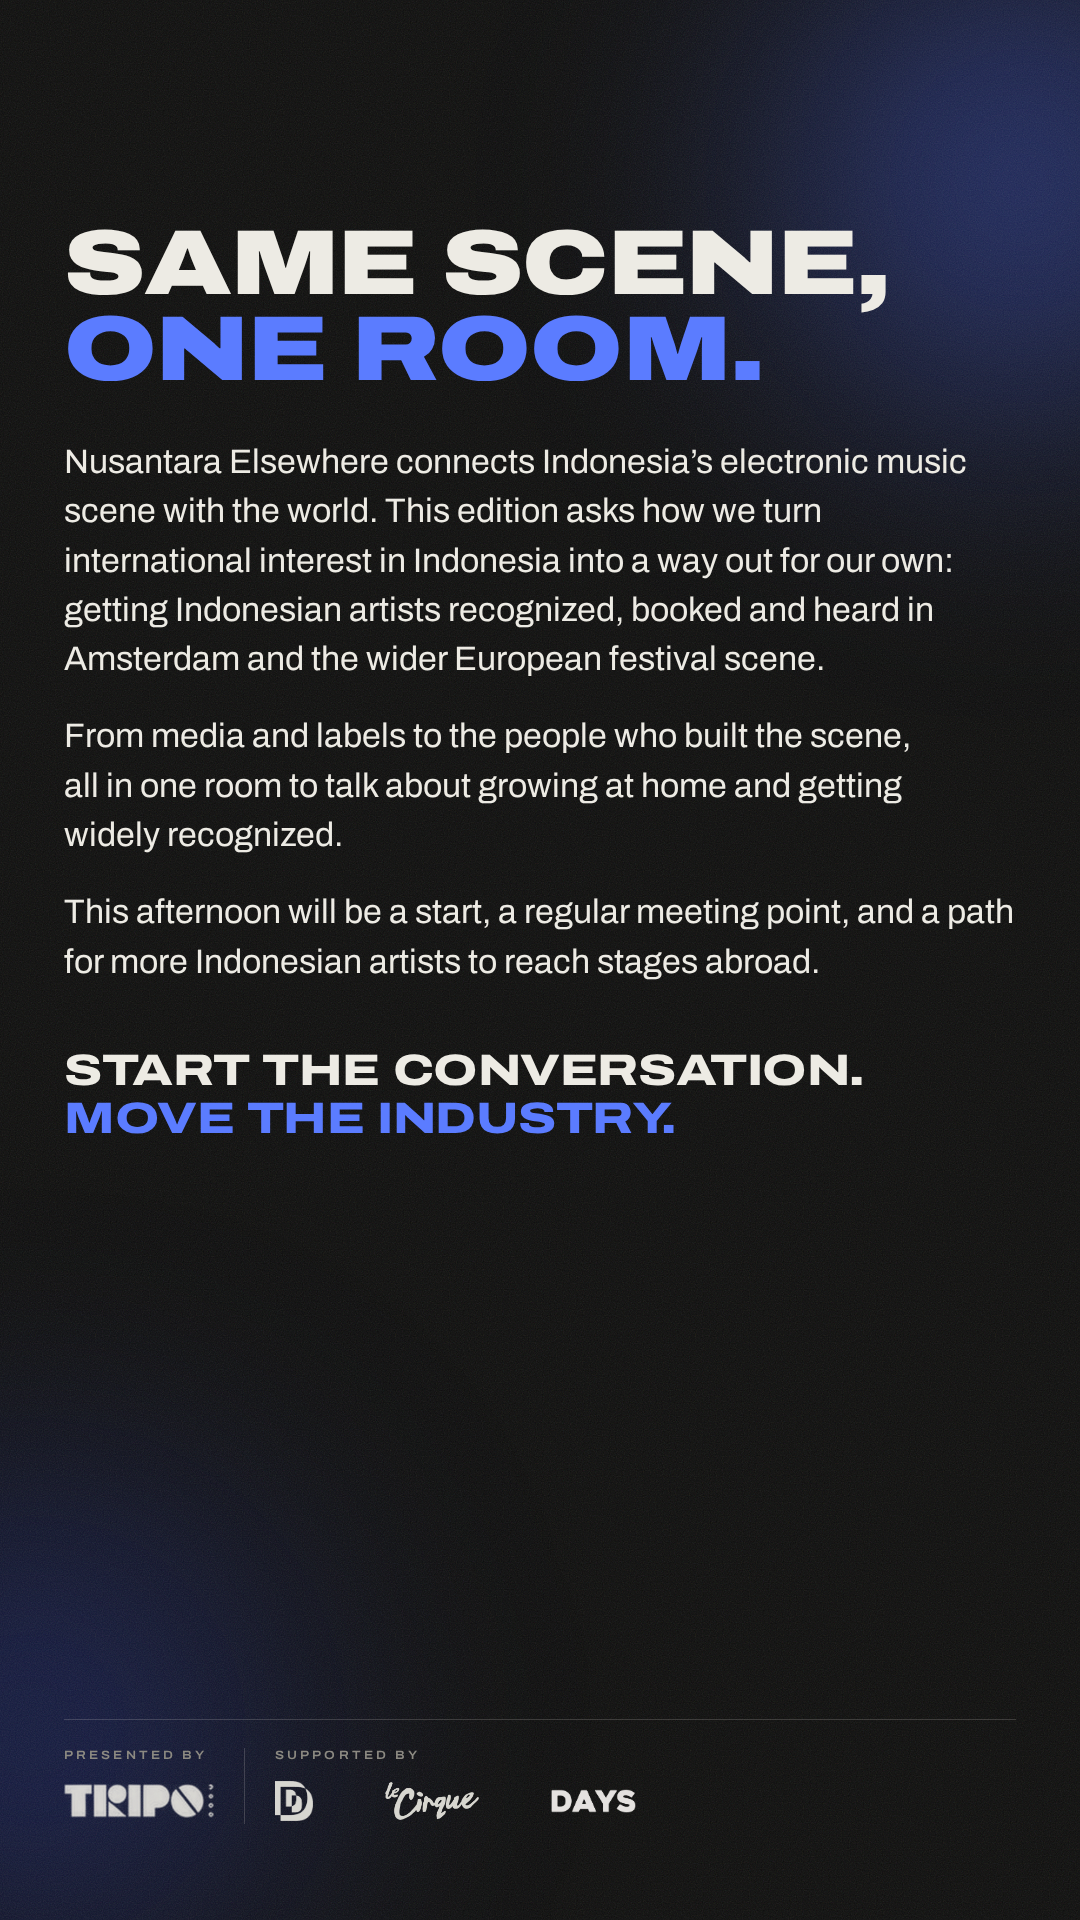
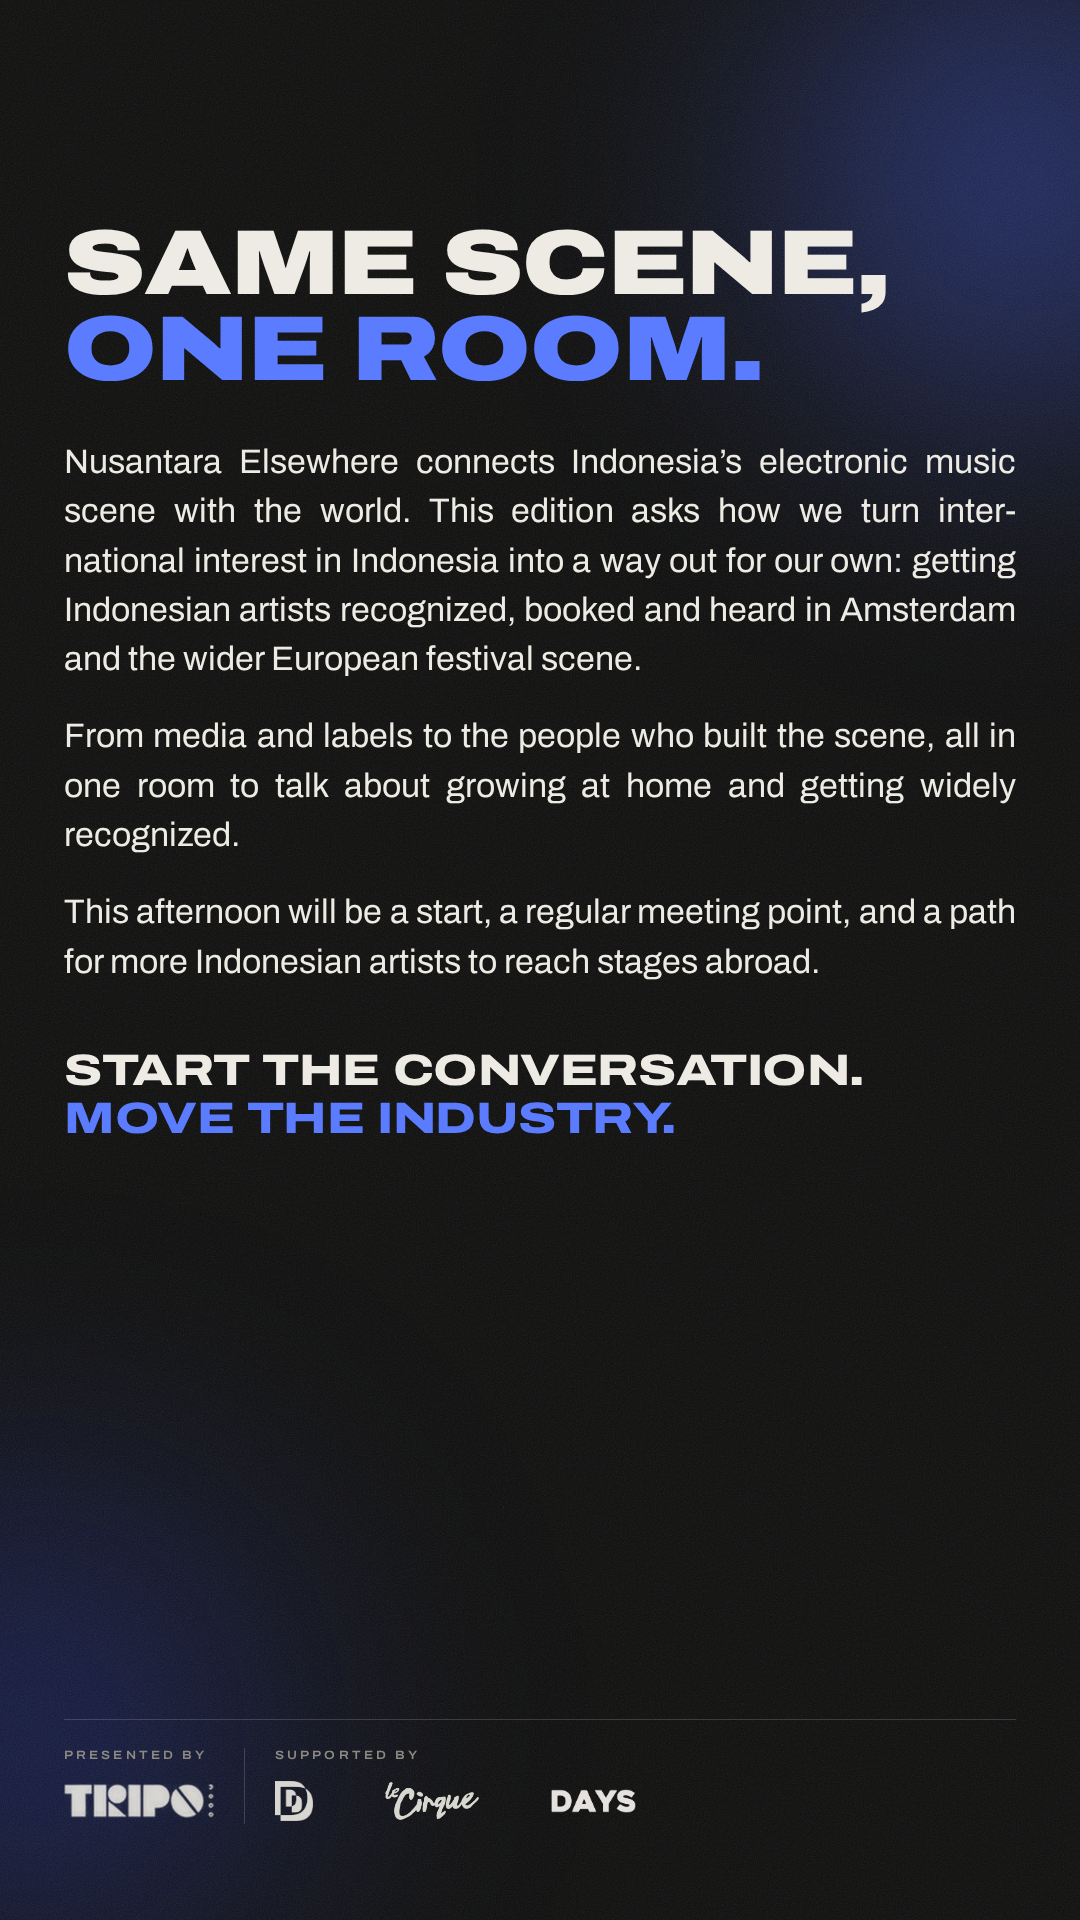
Why page: justify body copy
Claude-Session: https://claude.ai/code/session_01Sc5gF2HRFqjLpMQDrx7aqZ

diff --git a/events/ade-community-talks-2026/rebrand/03-scene-amsterdam-nusantara.html b/events/ade-community-talks-2026/rebrand/03-scene-amsterdam-nusantara.html
@@ -1,6 +1,6 @@
-<!doctype html><html><head><meta charset="utf-8"><title>Nusantara Elsewhere — Why</title><link rel="stylesheet" href="../modern.css">
+<!doctype html><html lang="en"><head><meta charset="utf-8"><title>Nusantara Elsewhere — Why</title><link rel="stylesheet" href="../modern.css">
 <style>
-.body { font-size: 34px; line-height: 1.45; color: var(--fg); }
+.body { font-size: 34px; line-height: 1.45; color: var(--fg); text-align: justify; hyphens: auto; }
 
 :root { --y: #5B7CFF; }
 .g1 { background: radial-gradient(circle, rgba(70,100,255,.48), rgba(70,100,255,0) 70%); }
@@ -15,8 +15,8 @@
 
   <div class="display" style="font-size:92px;line-height:.94;margin-top:0;white-space:nowrap">Same scene,<br><em>one room.</em></div>
 
-  <div class="body" style="margin-top:44px">Nusantara Elsewhere connects Indonesia’s electronic music scene with the world. This edition asks how we turn international interest in Indonesia into a way out for our own: getting Indonesian artists recognized, booked and heard in Amsterdam and the wider European festival scene.</div>
-  <div class="body" style="margin-top:28px;text-wrap:pretty">From media and labels to the people who built the scene, all in one room to talk about growing at home and getting widely recognized.</div>
+  <div class="body" style="margin-top:44px">Nusantara Elsewhere connects Indonesia’s electronic music scene with the world. This edition asks how we turn inter&shy;national interest in Indonesia into a way out for our own: getting Indonesian artists recognized, booked and heard in Amsterdam and the wider European festival scene.</div>
+  <div class="body" style="margin-top:28px">From media and labels to the people who built the scene, all in one room to talk about growing at home and getting widely recog&shy;nized.</div>
   <div class="body" style="margin-top:28px">This afternoon will be a start, a regular meeting point, and a path for more Indonesian artists to reach stages abroad.</div>
 
   <div class="display" style="font-size:44px;font-weight:800;margin-top:60px">Start the conversation.<br><em>Move the industry.</em></div>
